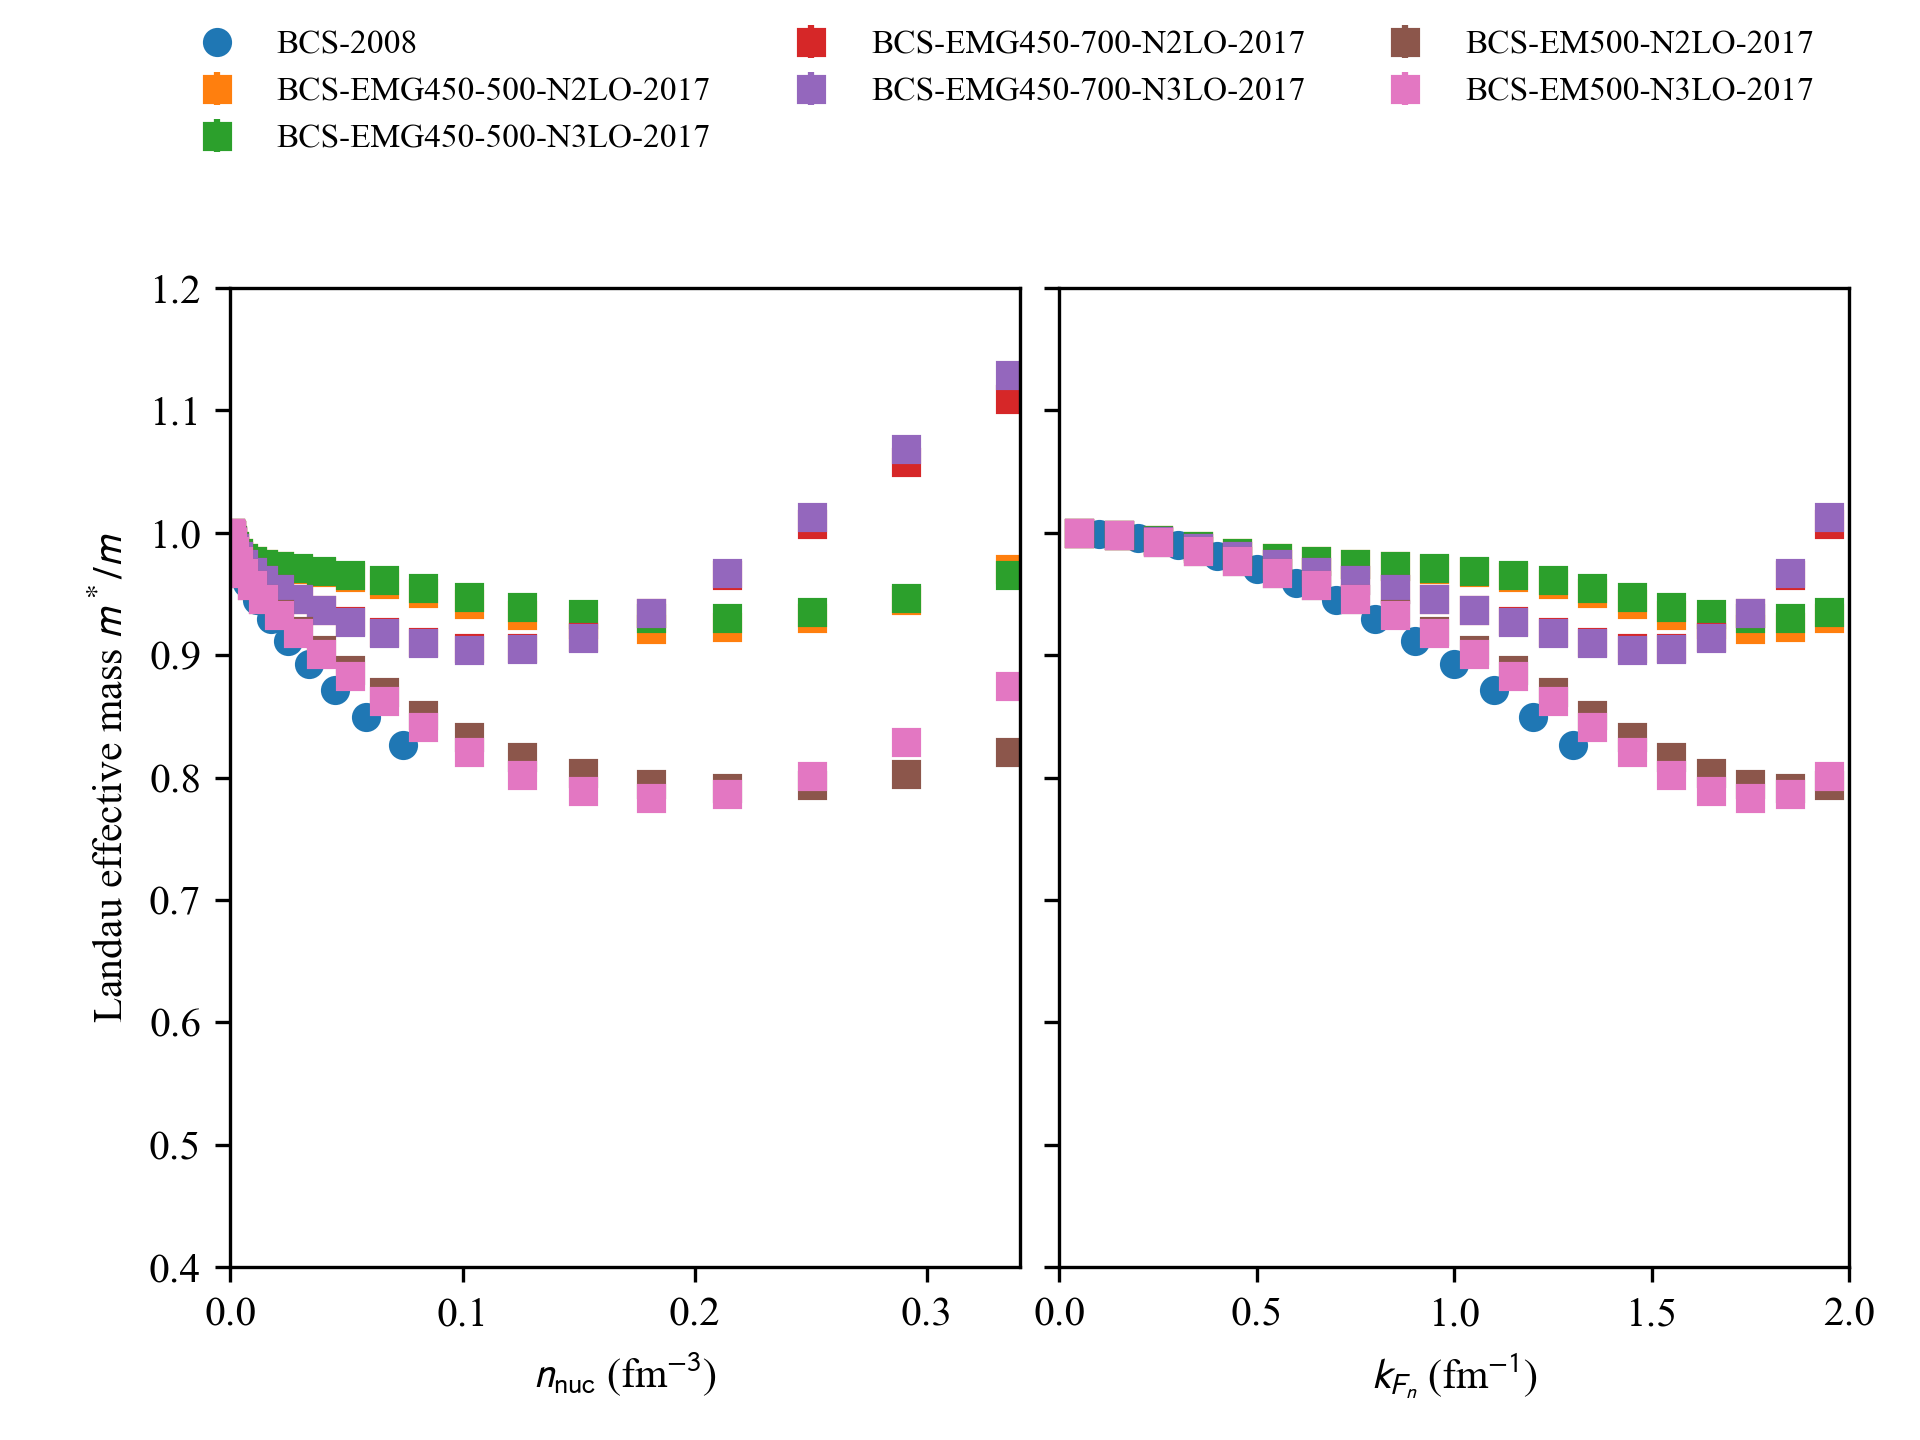
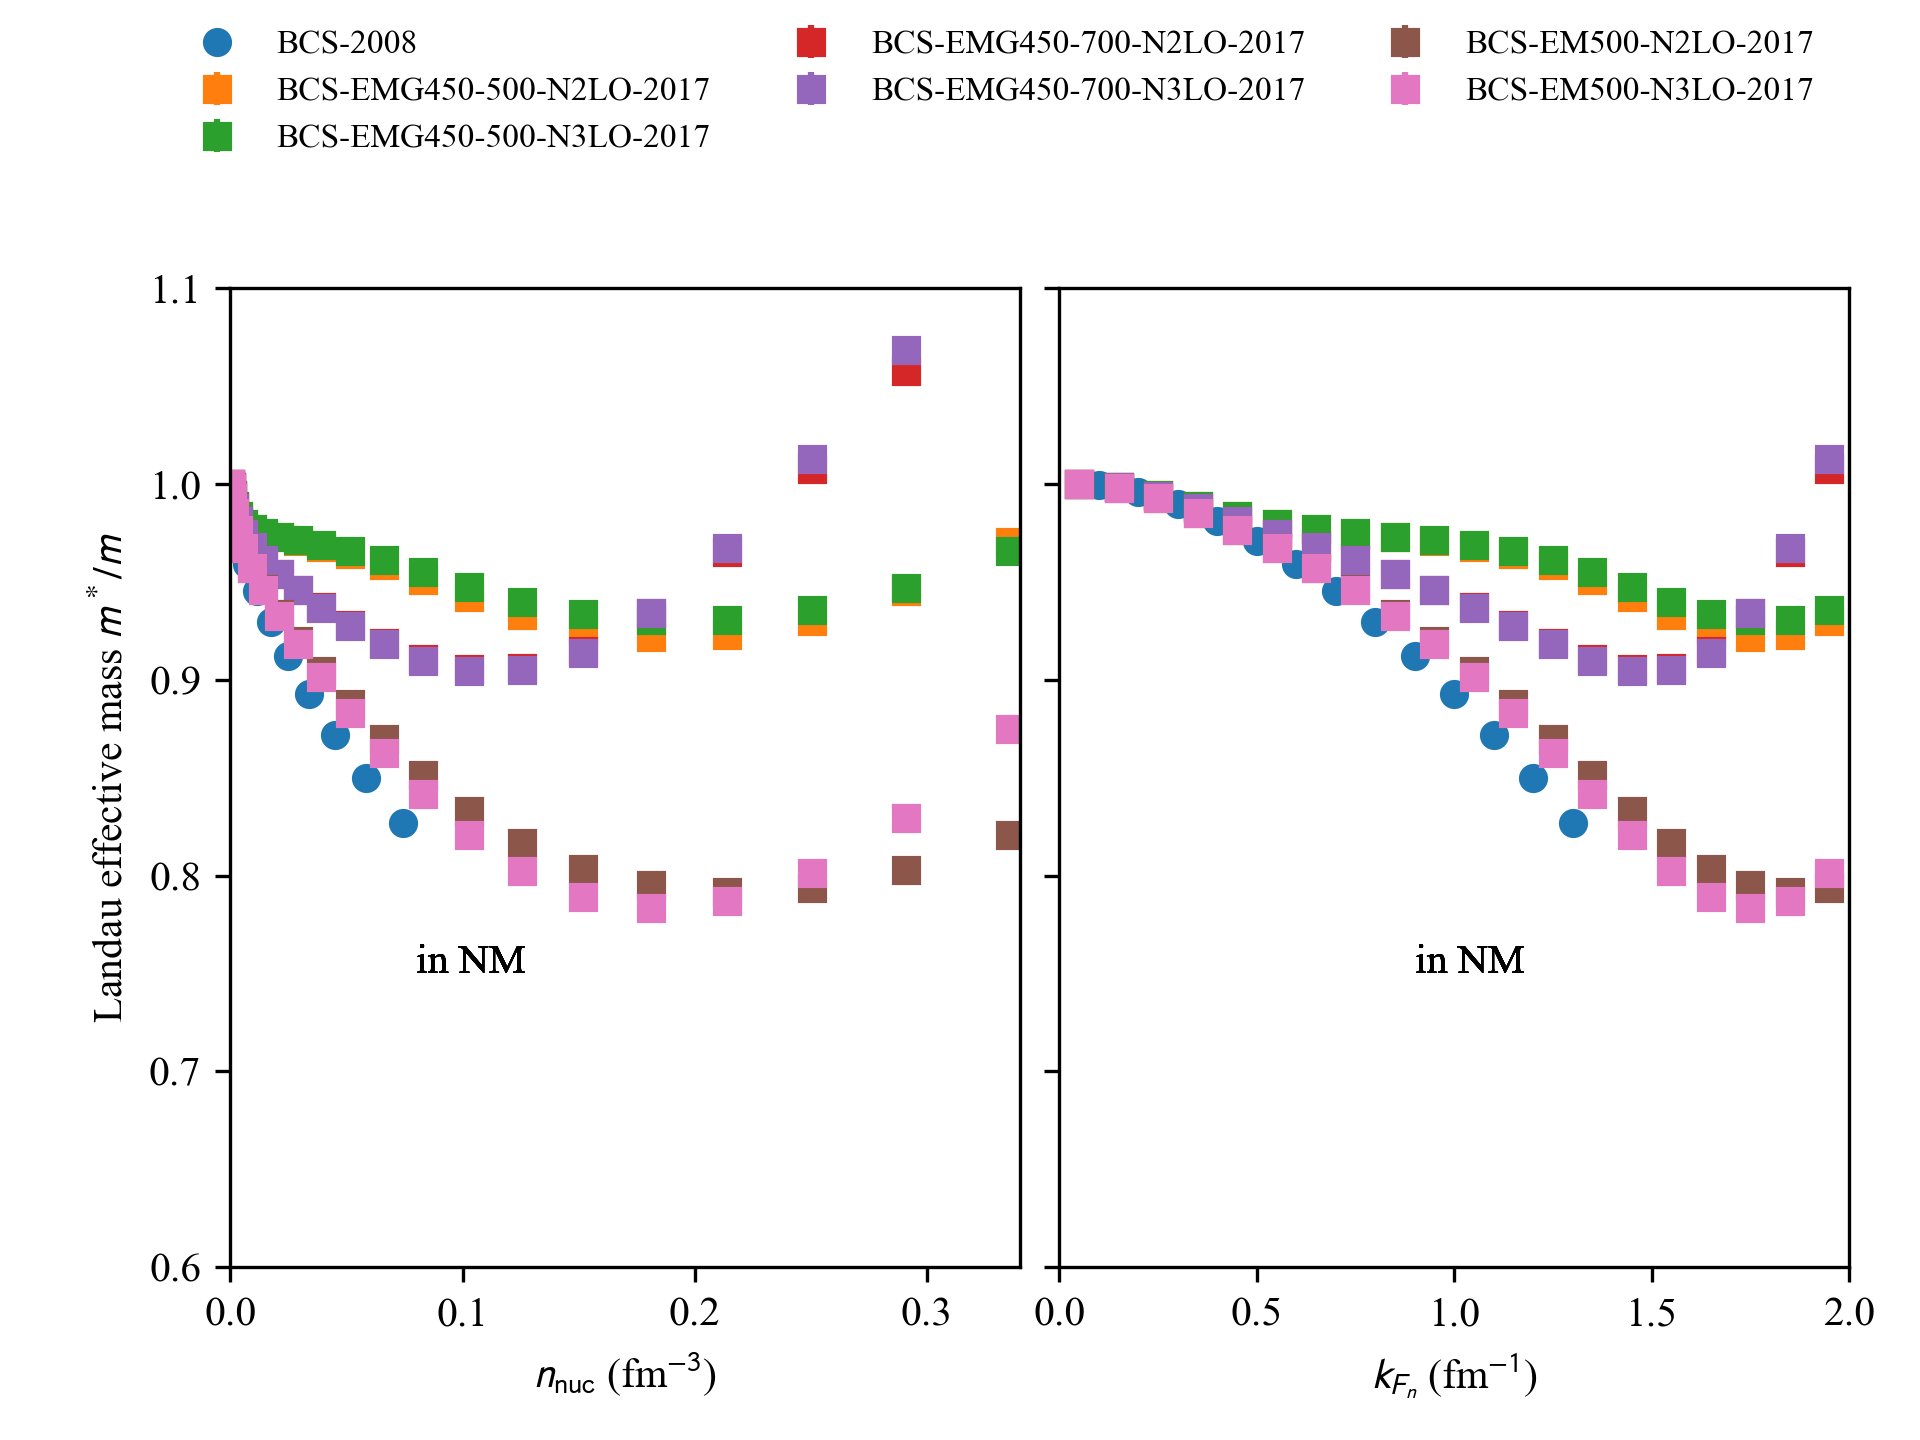
with BHF effective masses and empirical relation

diff --git a/version-0.2/nucleardatapy/fig/matter_setupMicro_effmass_fig.py b/version-0.2/nucleardatapy/fig/matter_setupMicro_effmass_fig.py
@@ -28,15 +28,27 @@ def matter_setupMicro_effmass_fig( pname, models, matter = 'NM' ):
     #
     axs[0].set_ylabel(r'Landau effective mass $m^*/m$')
     axs[0].set_xlabel(r'$n_\text{nuc}$ (fm$^{-3}$)')
-    axs[0].set_xlim([0, 0.34])
-    axs[0].set_ylim([0.4, 1.2])
     #axs[0].tick_params('x', labelbottom=False)
     #
-    axs[1].set_xlim([0, 2.0])
-    axs[1].set_ylim([0.4, 1.2])
     #axs[1].tick_params('x', labelbottom=False)
     axs[1].tick_params('y', labelleft=False)
     axs[1].set_xlabel(r'$k_{F_n}$ (fm$^{-1}$)')
+    #
+    if matter.lower() == 'nm':
+        axs[0].set_xlim([0, 0.34])
+        axs[0].set_ylim([0.6, 1.1])
+        axs[1].set_xlim([0, 2.0])
+        axs[1].set_ylim([0.6, 1.1])
+    elif matter.lower() == 'sm':
+        axs[0].set_xlim([0, 0.34])
+        axs[0].set_ylim([0.6, 1.1])
+        axs[1].set_xlim([0, 2.0])
+        axs[1].set_ylim([0.6, 1.1])
+    elif matter.lower() == 'am':
+        axs[0].set_xlim([0.05, 0.27])
+        axs[0].set_ylim([0.7, 1.0])
+        axs[1].set_xlim([0.7, 1.8])
+        axs[1].set_ylim([0.7, 1.0])
     #
     #axs[1,0].set_ylabel(r'$\Delta_{1S0}/E_F$')
     #
@@ -44,6 +56,8 @@ def matter_setupMicro_effmass_fig( pname, models, matter = 'NM' ):
         #
         ms = nuda.matter.setupMicroEffmass( model = model, matter = matter )
         #
+        axs[0].text(0.08,0.75,'in '+matter)
+        axs[1].text(0.90,0.75,'in '+matter)
         if matter.lower() == 'nm':
             if ms.nm_effmass is not None:
                 if ms.nm_effmass_err is not None:
@@ -60,6 +74,47 @@ def matter_setupMicro_effmass_fig( pname, models, matter = 'NM' ):
                 else:
                     axs[0].plot( ms.sm_den, ms.sm_effmass, marker=ms.marker, markevery=ms.every, linestyle='none', label=ms.label )
                     axs[1].plot( ms.sm_kfn, ms.sm_effmass, marker=ms.marker, markevery=ms.every, linestyle='none' )
+        elif matter.lower() == 'am':
+            if ms.sm_effmass_n is not None:
+                if ms.sm_effmass_err is not None:
+                    axs[0].errorbar( ms.sm_den, ms.sm_effmass, yerr=ms.sm_effmass_err, marker=ms.marker, markevery=ms.every, linestyle='none', label=ms.label )
+                    axs[1].errorbar( ms.sm_kfn, ms.sm_effmass, yerr=ms.sm_effmass_err, marker=ms.marker, markevery=ms.every, linestyle='none' )
+                else:
+                    ms_n_00, ms_p_00 = nuda.matter.effmass_emp( ms.sm_den , 0.0, mb = 'BHF' )
+                    ms_n_02, ms_p_02 = nuda.matter.effmass_emp( ms.am02_den , 0.2, mb = 'BHF' )
+                    ms_n_04, ms_p_04 = nuda.matter.effmass_emp( ms.am04_den , 0.4, mb = 'BHF' )
+                    axs[0].plot( ms.sm_den, ms.sm_effmass_n, marker='^', color=nuda.param.col[1], markevery=ms.every, linestyle='none', label=ms.label+'(neutrons)' )
+                    axs[0].plot( ms.am02_den, ms.am02_effmass_n, marker='^', color=nuda.param.col[1], markevery=ms.every, linestyle='none' )
+                    axs[0].plot( ms.am04_den, ms.am04_effmass_n, marker='^', color=nuda.param.col[1], markevery=ms.every, linestyle='none' )
+                    axs[0].plot( ms.sm_den, ms.sm_effmass_p, marker='v', color=nuda.param.col[2], markevery=ms.every, linestyle='none', label=ms.label+'(protons)' )
+                    axs[0].plot( ms.am02_den, ms.am02_effmass_p, marker='v', color=nuda.param.col[2], markevery=ms.every, linestyle='none' )
+                    axs[0].plot( ms.am04_den, ms.am04_effmass_p, marker='v', color=nuda.param.col[2], markevery=ms.every, linestyle='none' )
+                    axs[0].plot( ms.sm_den, ms_n_00, color=nuda.param.col[1], linestyle='solid', label='Fit(neutrons)' )
+                    axs[0].plot( ms.am02_den, ms_n_02, color=nuda.param.col[1], linestyle='solid' )
+                    axs[0].plot( ms.am04_den, ms_n_04, color=nuda.param.col[1], linestyle='solid' )
+                    axs[0].plot( ms.sm_den, ms_p_00, color=nuda.param.col[2], linestyle='solid', label='Fit(protons)' )
+                    axs[0].plot( ms.am02_den, ms_p_02, color=nuda.param.col[2], linestyle='solid' )
+                    axs[0].plot( ms.am04_den, ms_p_04, color=nuda.param.col[2], linestyle='solid' )
+                    axs[1].plot( ms.sm_kfn, ms.sm_effmass_n, marker='^', color=nuda.param.col[1], markevery=ms.every, linestyle='none' )
+                    axs[1].plot( ms.am02_kfn, ms.am02_effmass_n, marker='^', color=nuda.param.col[1], markevery=ms.every, linestyle='none' )
+                    axs[1].plot( ms.am04_kfn, ms.am04_effmass_n, marker='^', color=nuda.param.col[1], markevery=ms.every, linestyle='none' )
+                    axs[1].plot( ms.sm_kfn, ms.sm_effmass_p, marker='v', color=nuda.param.col[2], markevery=ms.every, linestyle='none' )
+                    axs[1].plot( ms.am02_kfn, ms.am02_effmass_p, marker='v', color=nuda.param.col[2], markevery=ms.every, linestyle='none' )
+                    axs[1].plot( ms.am04_kfn, ms.am04_effmass_p, marker='v', color=nuda.param.col[2], markevery=ms.every, linestyle='none' )
+                    axs[1].plot( ms.sm_kfn, ms_n_00, color=nuda.param.col[1], linestyle='solid' )
+                    axs[1].plot( ms.am02_kfn, ms_n_02, color=nuda.param.col[1], linestyle='solid' )
+                    axs[1].plot( ms.am04_kfn, ms_n_04, color=nuda.param.col[1], linestyle='solid' )
+                    axs[1].plot( ms.sm_kfn, ms_p_00, color=nuda.param.col[2], linestyle='solid' )
+                    axs[1].plot( ms.am02_kfn, ms_p_02, color=nuda.param.col[2], linestyle='solid' )
+                    axs[1].plot( ms.am04_kfn, ms_p_04, color=nuda.param.col[2], linestyle='solid' )
+                    axs[0].text(0.23,0.84,r'$\delta=0.4$',rotation=0)
+                    axs[0].text(0.23,0.81,r'$\delta=0.2$',rotation=0)
+                    axs[0].text(0.23,0.785,'SM',rotation=0)
+                    axs[0].text(0.23,0.76,r'$\delta=0.2$',rotation=0)
+                    axs[0].text(0.23,0.74,r'$\delta=0.4$',rotation=0)
+                    axs[1].text(0.90,0.92,'SM',rotation=0)
+                    axs[1].text(0.90,0.94,r'$\delta=0.2$',rotation=0)
+                    axs[1].text(0.95,0.96,r'$\delta=0.4$',rotation=0)
         if nuda.env.verb_output: ms.print_outputs( )
     #
     #axs[1,0].legend(loc='upper right',fontsize='8')

diff --git a/version-0.2/nucleardatapy/matter/setup_micro_effmass.py b/version-0.2/nucleardatapy/matter/setup_micro_effmass.py
@@ -8,6 +8,15 @@ import random
 
 import nucleardatapy as nuda
 
+def effmass_emp( den , delta, mb = 'BHF' ):
+    if mb == 'BHF':
+        kfsat = 1.32
+        kfn = nuda.kf_n( nuda.cst.half * ( 1.0 + delta ) * den )
+        kfp = nuda.kf_n( nuda.cst.half * ( 1.0 - delta ) * den )
+        ms_n = 1.0 / ( 1.0 + 0.20 * (kfp/kfsat)**3.5 )
+        ms_p = 1.0 / ( 1.0 + 0.20 * (kfn/kfsat)**3.5 )
+    return ms_n, ms_p
+
 def micro_effmass_models( matter = 'NM' ):
     """
     Return a list with the name of the models available in this toolkit and \
@@ -24,7 +33,7 @@ def micro_effmass_models( matter = 'NM' ):
     #
     if nuda.env.verb: print("\nEnter micro_effmass_models()")
     # '2008-AFDMC-NM', 
-    models_all = [ '2008-BCS-NM', \
+    models_all = [ '2006-BHF-SM-Av18', '2006-BHF-AM-Av18', '2008-BCS-NM', \
             '2017-MBPT-NM-GAP-EMG-450-500-N2LO', '2017-MBPT-NM-GAP-EMG-450-500-N3LO', '2017-MBPT-NM-GAP-EMG-450-700-N2LO', \
             '2017-MBPT-NM-GAP-EMG-450-700-N3LO', '2017-MBPT-NM-GAP-EM-500-N2LO', '2017-MBPT-NM-GAP-EM-500-N3LO', \
             '2022-AFDMC-NM' ]
@@ -85,7 +94,51 @@ class setupMicroEffmass():
             print('setup_micro_effmass: -- Exit the code --')
             exit()
         #
-        if model.lower() == '2008-bcs-nm':
+        if model.lower() == '2006-bhf-sm-av18':
+            #
+            file_in = os.path.join(nuda.param.path_data,'matter/micro/2006-BHF/2006-BHF-Av18-effmass-SM.dat')
+            if nuda.env.verb: print('Reads file:',file_in)
+            self.ref = 'L.G. Cao, U. Lombardo, C.W. Shen, N.V. Giai, Phys. Rev. C 73, 014313 (2006)'
+            self.note = ""
+            self.label = 'BHF-2006'
+            self.marker = 'o'
+            self.every = 1
+            #self.linestyle = 'dotted'
+            self.err = False
+            self.nm_effmass_err = None
+            self.sm_den, self.sm_effmass \
+                = np.loadtxt( file_in, usecols=(0,1), unpack = True )
+            self.sm_kfn = nuda.kf_n( nuda.cst.half * self.sm_den )
+            #
+        elif model.lower() == '2006-bhf-am-av18':
+            #
+            file_in_00 = os.path.join(nuda.param.path_data,'matter/micro/2006-BHF/2006-BHF-Av18-effmass-SM.dat')
+            file_in_02 = os.path.join(nuda.param.path_data,'matter/micro/2006-BHF/2006-BHF-Av18-effmass-beta0.2.dat')
+            file_in_04 = os.path.join(nuda.param.path_data,'matter/micro/2006-BHF/2006-BHF-Av18-effmass-beta0.4.dat')
+            self.ref = 'L.G. Cao, U. Lombardo, C.W. Shen, N.V. Giai, Phys. Rev. C 73, 014313 (2006)'
+            self.note = ""
+            self.label = 'BHF-2006'
+            self.marker = 'o'
+            self.every = 1
+            #self.linestyle = 'dotted'
+            self.err = False
+            self.nm_effmass_err = None
+            self.sm_den, self.sm_effmass_p \
+                = np.loadtxt( file_in_00, usecols=(0,1), unpack = True )
+            self.sm_effmass_n = self.sm_effmass_p
+            self.sm_kfn = nuda.kf_n( nuda.cst.half * ( 1.0 + 0.0 ) * self.sm_den )
+            #
+            # asymmetric matter with delta = 0.2
+            self.am02_den, self.am02_effmass_p, self.am02_effmass_n \
+                = np.loadtxt( file_in_02, usecols=(0,1,2), unpack = True )
+            self.am02_kfn = nuda.kf_n( nuda.cst.half * ( 1.0 + 0.2 ) * self.am02_den )
+            #
+            # asymmetric matter with delta = 0.4
+            self.am04_den, self.am04_effmass_p, self.am04_effmass_n \
+                = np.loadtxt( file_in_04, usecols=(0,1,2), unpack = True )
+            self.am04_kfn = nuda.kf_n( nuda.cst.half * ( 1.0 + 0.4 ) * self.am04_den )
+            #
+        elif model.lower() == '2008-bcs-nm':
             #
             file_in = os.path.join(nuda.param.path_data,'matter/micro/2008-BCS-NM.dat')
             if nuda.env.verb: print('Reads file:',file_in)

diff --git a/version-0.2/nucleardatapy_samples/matter_setupMicro_effmass_plot.py b/version-0.2/nucleardatapy_samples/matter_setupMicro_effmass_plot.py
@@ -15,15 +15,29 @@ def main():
     # Neutron Matter (NM)
     # ===============================
     #
-    # list the available models in NM
+    # plot effective mass in NM
     #
     models, models_lower, models_all, models_all_lower = nuda.matter.micro_effmass_models( matter = 'NM' )
-    #
-    # plot effective mass
     #
     pname = 'figs/plot_matter_setupMicro_effmass_NM.png'
     #
     nuda.fig.matter_setupMicro_effmass_fig( pname, models, matter = 'NM' )
+    #
+    # plot effective mass in SM
+    #
+    models, models_lower, models_all, models_all_lower = nuda.matter.micro_effmass_models( matter = 'SM' )
+    #
+    pname = 'figs/plot_matter_setupMicro_effmass_SM.png'
+    #
+    nuda.fig.matter_setupMicro_effmass_fig( pname, models, matter = 'SM' )
+    #
+    # plot effective mass in AM
+    #
+    models, models_lower, models_all, models_all_lower = nuda.matter.micro_effmass_models( matter = 'AM' )
+    #
+    pname = 'figs/plot_matter_setupMicro_effmass_AM.png'
+    #
+    nuda.fig.matter_setupMicro_effmass_fig( pname, models, matter = 'AM' )
     #
     print(50*'-')
     print("Exit matter_setupMicro_effmass_plot.py:")
